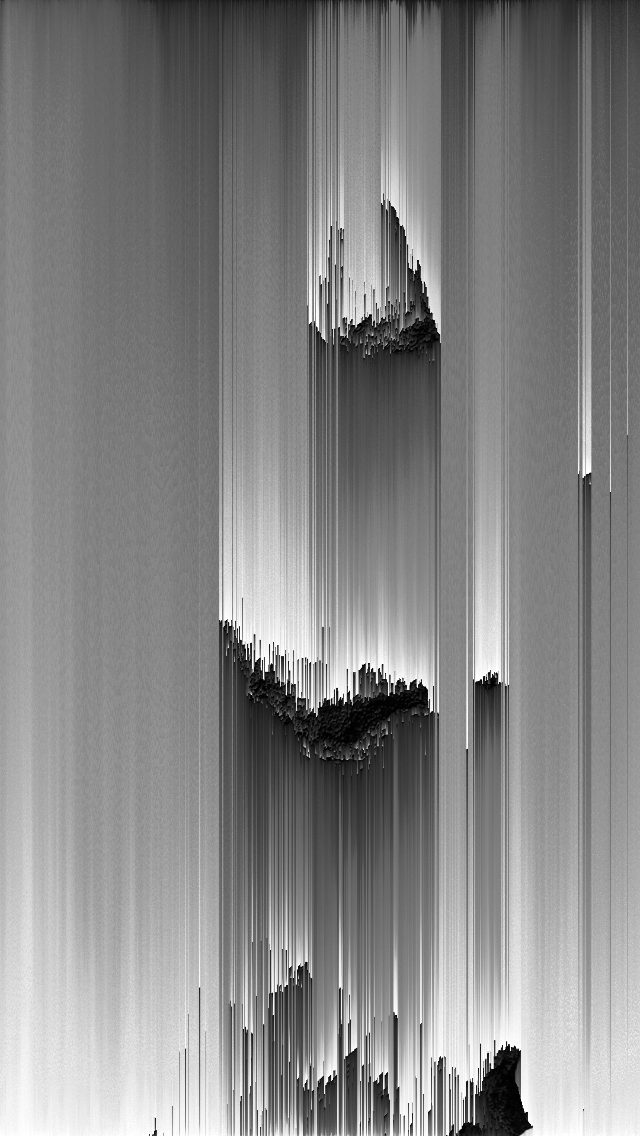
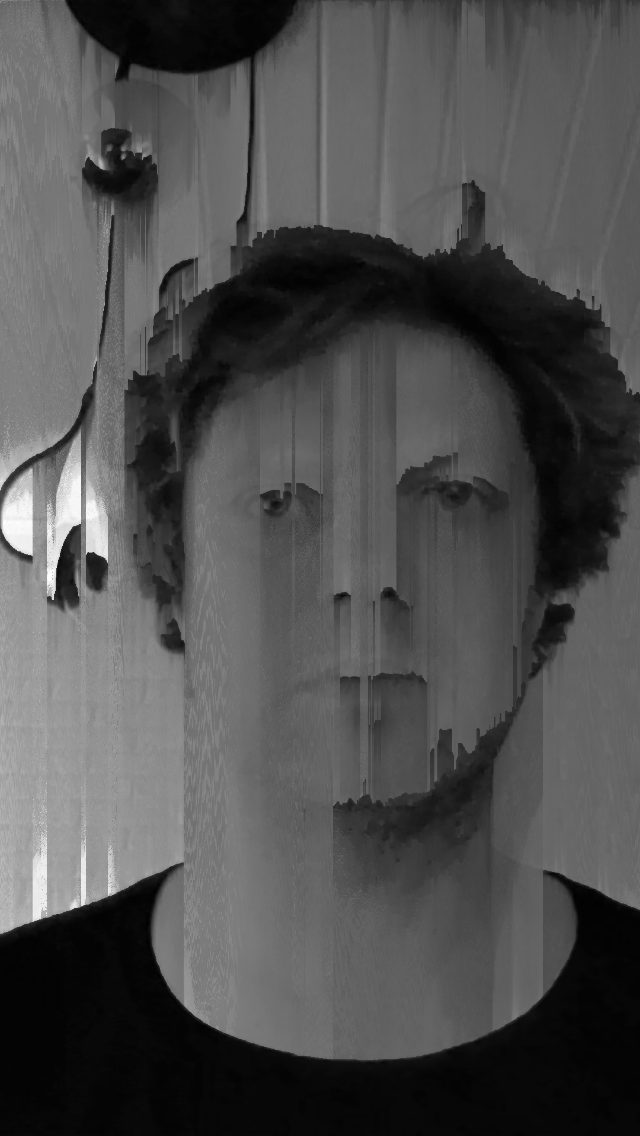
update pixel sort

diff --git a/src/presets/pixelSortStart.ts b/src/presets/pixelSortStart.ts
@@ -1,19 +1,17 @@
-import { libraryImage } from "../nodes/shared/fileParam";
 import type { SerializedPatch } from "../store/persistence";
 
 export function pixelSortStart(): SerializedPatch {
-  const patch = {
+  return {
   "format": 1,
   "width": 1080,
   "height": 1920,
-  "source": "img1.jpg",
   "nodes": [
     {
       "id": "screen-1",
       "type": "output.screen",
       "position": {
-        "x": 829.4319805437722,
-        "y": 488.03751353977475
+        "x": 765.5242398890389,
+        "y": 665.4530323723178
       },
       "params": {
         "background": "#000000"
@@ -27,7 +25,7 @@ export function pixelSortStart(): SerializedPatch {
         "y": 148.1347175885266
       },
       "params": {
-        "thresh": 19,
+        "thresh": 55,
         "vert": true,
         "scale": 1,
         "interval": 1,
@@ -61,13 +59,8 @@ export function pixelSortStart(): SerializedPatch {
         "y": -32.94965614485287
       },
       "params": {
-        "mode": "image",
+        "mode": "camera",
         "facing": "user",
-        "file": {
-          "name": "img1.jpg",
-          "url": "./imgs/img1.jpg",
-          "mime": "image/jpeg"
-        },
         "playing": true,
         "muted": false,
         "volume": 1,
@@ -76,6 +69,32 @@ export function pixelSortStart(): SerializedPatch {
         "mirror": false,
         "fit": "cover",
         "zoom": 1
+      }
+    },
+    {
+      "id": "blend-5",
+      "type": "fx.blend",
+      "position": {
+        "x": 595.6261057582566,
+        "y": 490.6095946115438
+      },
+      "params": {
+        "mode": "over",
+        "opacity": 0.8500000000000001
+      }
+    },
+    {
+      "id": "color-6",
+      "type": "fx.color",
+      "position": {
+        "x": 295.7769833892255,
+        "y": 494.4547998818878
+      },
+      "params": {
+        "brightness": 0,
+        "contrast": 1.7000000000000002,
+        "saturation": 0,
+        "hue": 0
       }
     }
   ],
@@ -95,11 +114,32 @@ export function pixelSortStart(): SerializedPatch {
       "targetHandle": "src"
     },
     {
-      "id": "e-85a12f29-e630-4832-adca-55c63dff4ab0",
-      "source": "colorCorrection-4",
+      "id": "e-b3ce264c-8fbb-4022-ba36-23672b2a3108",
+      "source": "blend-5",
       "sourceHandle": "out",
       "target": "screen-1",
       "targetHandle": "src"
+    },
+    {
+      "id": "e-565a2877-644f-463b-bbcb-8c88e23fc08d",
+      "source": "media-1",
+      "sourceHandle": "out",
+      "target": "color-6",
+      "targetHandle": "src"
+    },
+    {
+      "id": "e-9355309e-522e-4262-9523-004ed24d3b8e",
+      "source": "colorCorrection-4",
+      "sourceHandle": "out",
+      "target": "blend-5",
+      "targetHandle": "top"
+    },
+    {
+      "id": "e-19af151e-d2d6-4e1b-9617-970eff46a314",
+      "source": "color-6",
+      "sourceHandle": "out",
+      "target": "blend-5",
+      "targetHandle": "base"
     }
   ],
   "timeline": {
@@ -107,6 +147,10 @@ export function pixelSortStart(): SerializedPatch {
     "durationInFrames": 1473,
     "keyframes": {
       "pixelSort-5:vert": [
+        {
+          "frame": 0,
+          "value": true
+        },
         {
           "frame": 3,
           "value": true
@@ -127,7 +171,7 @@ export function pixelSortStart(): SerializedPatch {
       "pixelSort-5:thresh": [
         {
           "frame": 0,
-          "value": 19
+          "value": 55
         },
         {
           "frame": 3,
@@ -302,7 +346,4 @@ export function pixelSortStart(): SerializedPatch {
     "pixelSort-5:thresh"
   ]
 } as SerializedPatch;
-  const media = patch.nodes.find((node) => node.id === "media-1");
-  if (media) media.params.file = libraryImage("img1.jpg");
-  return patch;
 }
